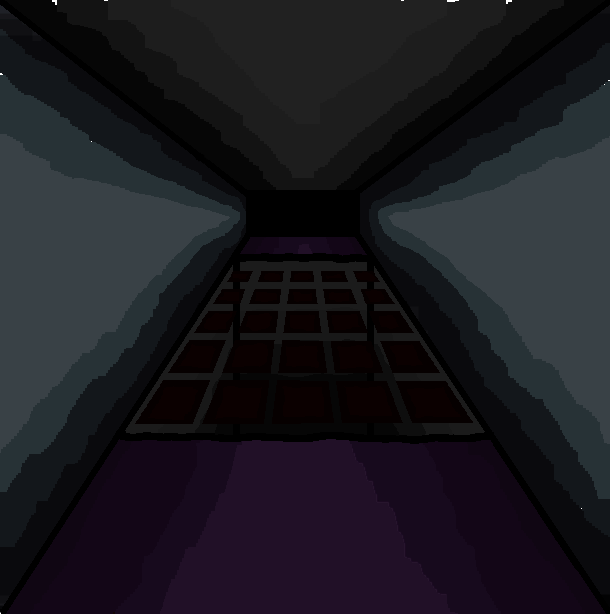
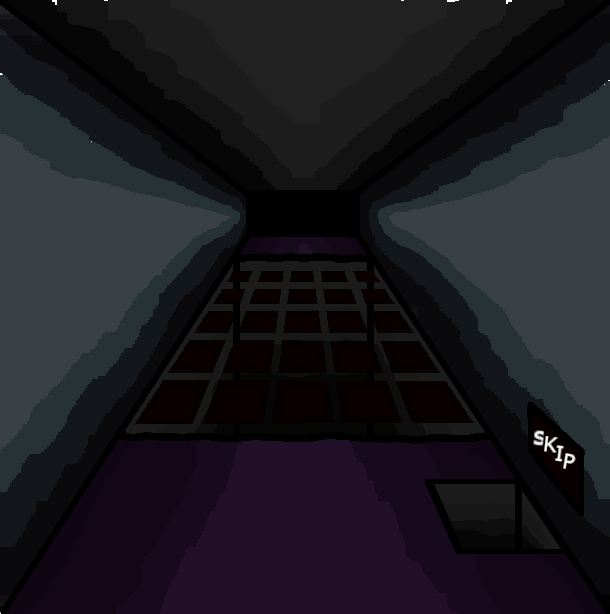
added skip trapdoor

Changed region(s): [[0.841, 0.6498, 0.9656, 0.8355], [0.6852, 0.7736, 0.7787, 0.9283]]

diff --git a/index.html b/index.html
@@ -19,6 +19,7 @@
     <meta name="viewport" content="width=device-width, initial-scale=1.0">
     <link rel="stylesheet" type="text/css" href="stylesheet.css" />
     <link rel="stylesheet" type="text/css" href="mazeStyle-RC.css" />
+    <link rel="stylesheet" type="text/css" href="tooltips.css" />
 </head>
 
 <body>
@@ -67,7 +68,12 @@
             <!-- Set Difficulty -->
             <label for="difficulty"><u>Maze Difficulty</u></label><br>
             <select name="difficulty" id="difficulty">
-                <option value="Easy">Easy</option>
+                <option value="Easy">Easy
+                    <span class="tooltiptext">
+                        A writen paper that looks into the theory behind
+                        creating an accurate model of a farm in detail.
+                      </span>
+                </option>
                 <option value="Medium">Medium</option>
                 <option value="Hard">Hard</option>
             </select>

diff --git a/tooltips.css b/tooltips.css
@@ -1,0 +1,34 @@
+.tooltip {
+    position: relative;
+  }
+  
+  .tooltip .tooltiptext {
+    visibility: hidden;    
+    height:auto;
+    width: 200px;
+    background-color: rgba(23, 31, 36, 0.979);
+    color: #fff;
+    text-align: center;
+    border:rgb(15, 20, 24) solid 5px;  
+    border-radius: 6px;
+    padding: 5px 5px;
+    position: absolute;
+    z-index: 1;
+    top: -5px;
+    left: 100%;
+    font-size: .5em;
+  }
+  
+  .tooltip .tooltiptext::after {
+    content: "";
+    position: absolute;
+    top: 20%;
+    right: 100%;
+    margin-top: -5px;
+    border-width: 15px;
+    border-style: solid;
+    border-color: transparent rgb(15,20,24) transparent transparent;
+  }
+  .tooltip:hover .tooltiptext {
+    visibility: visible;
+  }
